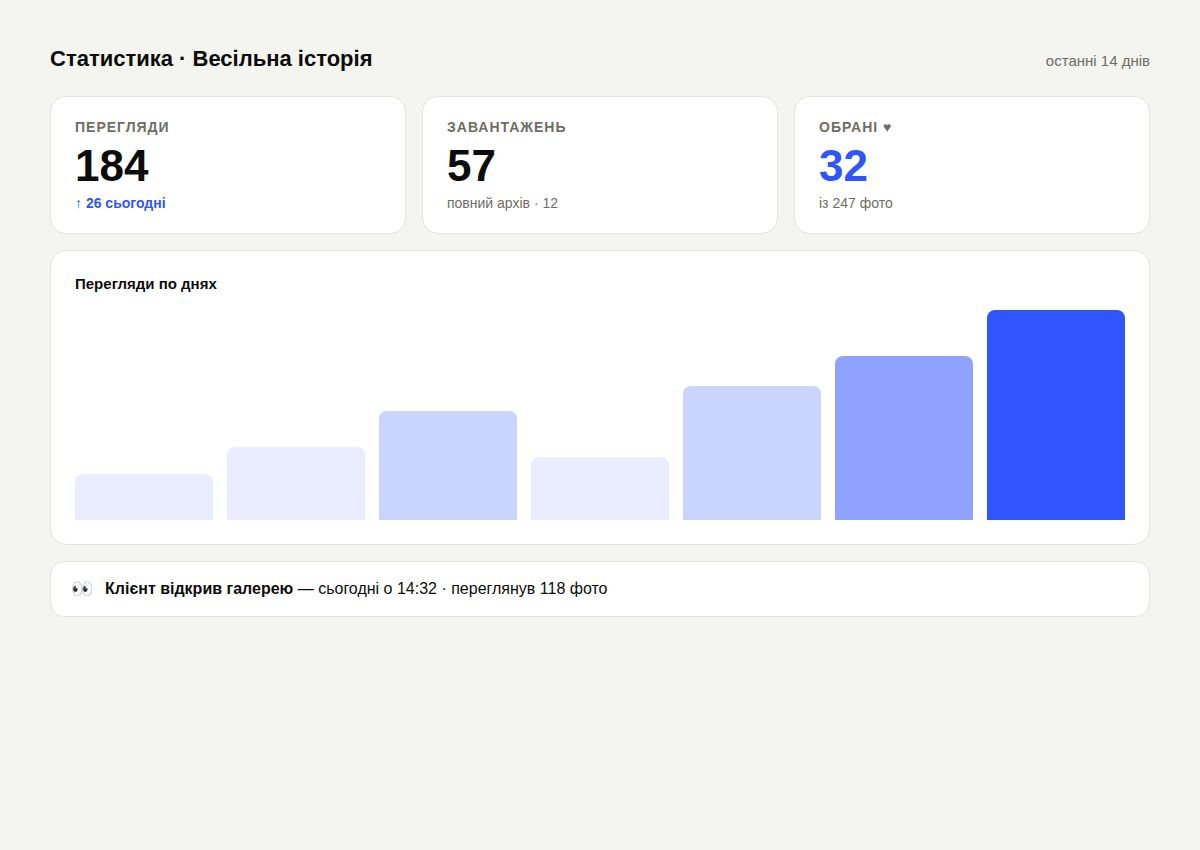
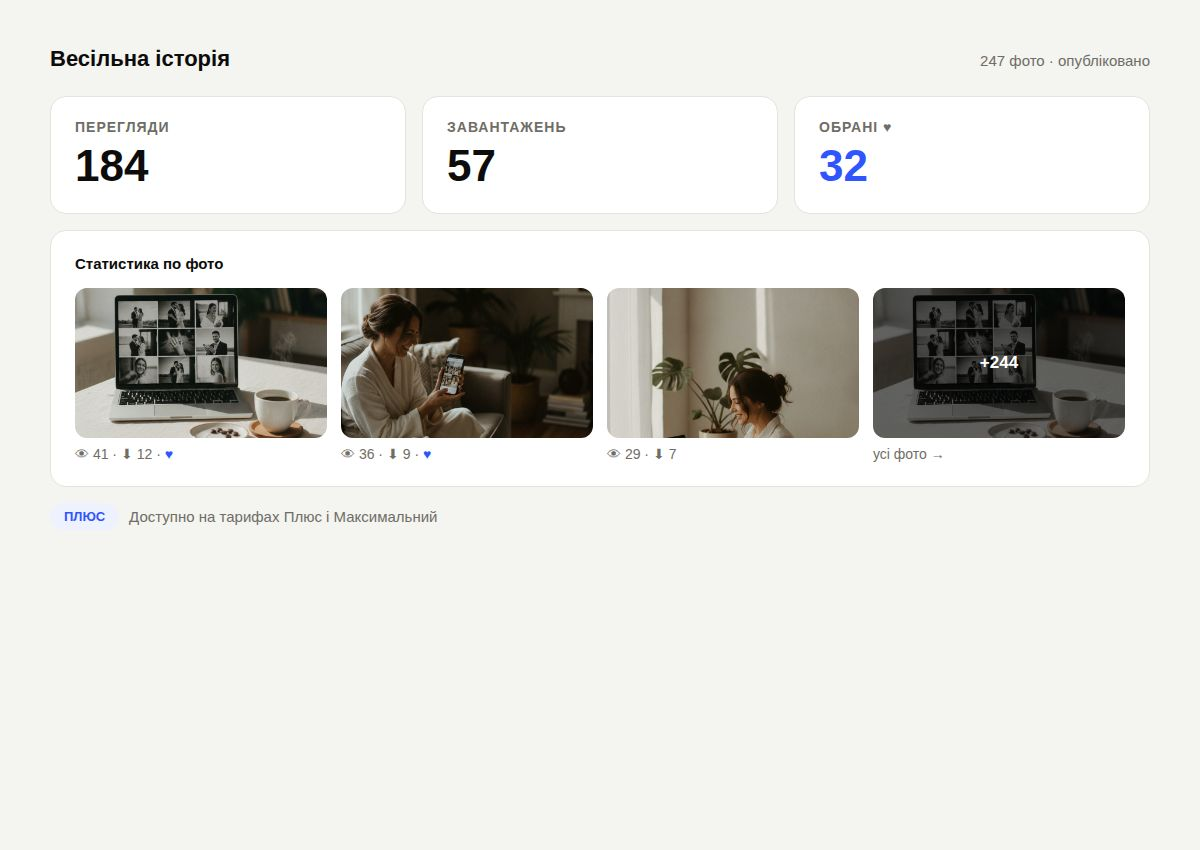
Stats frame: match the real product
Per-gallery counters + per-photo views/downloads (gallery_events), no
invented day-chart or activity feed; body copy updated; Плюс+ badge.

diff --git a/_mock/stats.html b/_mock/stats.html
@@ -1,40 +1,49 @@
 <!doctype html><meta charset=utf-8>
 <body style="margin:0;width:1200px;height:850px;background:#F4F4F1;font-family:-apple-system,Segoe UI,Roboto,Arial;padding:46px 50px;box-sizing:border-box">
 <div style="display:flex;align-items:baseline;gap:14px">
-  <div style="font-size:22px;font-weight:800;color:#0D0C0A">Статистика · Весільна історія</div>
-  <div style="margin-left:auto;font-size:15px;color:#6F6D66">останні 14 днів</div>
+  <div style="font-size:22px;font-weight:800;color:#0D0C0A">Весільна історія</div>
+  <div style="margin-left:auto;font-size:15px;color:#6F6D66">247 фото · опубліковано</div>
 </div>
 <div style="display:grid;grid-template-columns:repeat(3,1fr);gap:16px;margin-top:24px">
   <div style="background:#fff;border:1px solid #E5E3DC;border-radius:16px;padding:22px 24px">
     <div style="font-size:14px;font-weight:700;color:#6F6D66;letter-spacing:1px">ПЕРЕГЛЯДИ</div>
     <div style="font-size:44px;font-weight:800;color:#0D0C0A;margin-top:6px">184</div>
-    <div style="font-size:14px;color:#2F55FF;font-weight:700;margin-top:4px">↑ 26 сьогодні</div>
   </div>
   <div style="background:#fff;border:1px solid #E5E3DC;border-radius:16px;padding:22px 24px">
     <div style="font-size:14px;font-weight:700;color:#6F6D66;letter-spacing:1px">ЗАВАНТАЖЕНЬ</div>
     <div style="font-size:44px;font-weight:800;color:#0D0C0A;margin-top:6px">57</div>
-    <div style="font-size:14px;color:#6F6D66;margin-top:4px">повний архів · 12</div>
   </div>
   <div style="background:#fff;border:1px solid #E5E3DC;border-radius:16px;padding:22px 24px">
     <div style="font-size:14px;font-weight:700;color:#6F6D66;letter-spacing:1px">ОБРАНІ ♥</div>
     <div style="font-size:44px;font-weight:800;color:#2F55FF;margin-top:6px">32</div>
-    <div style="font-size:14px;color:#6F6D66;margin-top:4px">із 247 фото</div>
   </div>
 </div>
 <div style="background:#fff;border:1px solid #E5E3DC;border-radius:16px;padding:24px;margin-top:16px">
-  <div style="font-size:15px;font-weight:700;color:#0D0C0A;margin-bottom:18px">Перегляди по днях</div>
-  <div style="display:flex;align-items:flex-end;gap:14px;height:210px">
-    <div style="flex:1;background:#E9EDFF;border-radius:8px 8px 0 0;height:22%"></div>
-    <div style="flex:1;background:#E9EDFF;border-radius:8px 8px 0 0;height:35%"></div>
-    <div style="flex:1;background:#C9D4FF;border-radius:8px 8px 0 0;height:52%"></div>
-    <div style="flex:1;background:#E9EDFF;border-radius:8px 8px 0 0;height:30%"></div>
-    <div style="flex:1;background:#C9D4FF;border-radius:8px 8px 0 0;height:64%"></div>
-    <div style="flex:1;background:#8FA2FF;border-radius:8px 8px 0 0;height:78%"></div>
-    <div style="flex:1;background:#2F55FF;border-radius:8px 8px 0 0;height:100%"></div>
+  <div style="font-size:15px;font-weight:700;color:#0D0C0A;margin-bottom:16px">Статистика по фото</div>
+  <div style="display:grid;grid-template-columns:repeat(4,1fr);gap:14px">
+    <div>
+      <div style="border-radius:12px;overflow:hidden"><img src="../input/photos/gallery-hero.jpg" style="width:100%;height:150px;object-fit:cover;display:block"></div>
+      <div style="font-size:14px;color:#6F6D66;margin-top:8px">👁 41 · ⬇ 12 · <span style="color:#2F55FF">♥</span></div>
+    </div>
+    <div>
+      <div style="border-radius:12px;overflow:hidden"><img src="../input/photos/gallery-beautiful.jpg" style="width:100%;height:150px;object-fit:cover;display:block"></div>
+      <div style="font-size:14px;color:#6F6D66;margin-top:8px">👁 36 · ⬇ 9 · <span style="color:#2F55FF">♥</span></div>
+    </div>
+    <div>
+      <div style="border-radius:12px;overflow:hidden"><img src="../input/photos/photo-photographer.jpg" style="width:100%;height:150px;object-fit:cover;display:block"></div>
+      <div style="font-size:14px;color:#6F6D66;margin-top:8px">👁 29 · ⬇ 7</div>
+    </div>
+    <div>
+      <div style="position:relative;border-radius:12px;overflow:hidden">
+        <img src="../input/photos/gallery-hero.jpg" style="width:100%;height:150px;object-fit:cover;display:block;filter:brightness(.45) grayscale(.3)">
+        <div style="position:absolute;inset:0;display:flex;align-items:center;justify-content:center;color:#fff;font-size:17px;font-weight:800">+244</div>
+      </div>
+      <div style="font-size:14px;color:#6F6D66;margin-top:8px">усі фото →</div>
+    </div>
   </div>
 </div>
-<div style="display:flex;align-items:center;gap:12px;margin-top:16px;background:#fff;border:1px solid #E5E3DC;border-radius:14px;padding:16px 20px">
-  <span style="font-size:18px">👀</span>
-  <span style="font-size:16px;color:#0D0C0A"><b>Клієнт відкрив галерею</b> — сьогодні о 14:32 · переглянув 118 фото</span>
+<div style="display:flex;align-items:center;gap:10px;margin-top:16px;font-size:15px;color:#6F6D66">
+  <span style="background:#EEF2FF;color:#2F55FF;font-weight:800;border-radius:999px;padding:6px 14px;font-size:13px">ПЛЮС</span>
+  <span>Доступно на тарифах Плюс і Максимальний</span>
 </div>
 </body>

diff --git a/config.py b/config.py
@@ -189,7 +189,7 @@ STORIES = [
              "photo": "screenshot-video.jpg"},
             {"type": "feature", "kick": "АНАЛІТИКА",
              "head": "*Статистика* переглядів",
-             "body": "Бачиш, коли клієнт відкрив галерею, які фото дивився й що завантажив. Жодних здогадок.",
+             "body": "Перегляди, завантаження й обрані — по всій галереї та по кожному фото окремо.",
              "photo": "screenshot-stats.jpg"},
             {"type": "feature", "kick": "ДИЗАЙН",
              "head": "*Дизайн-студія*",
